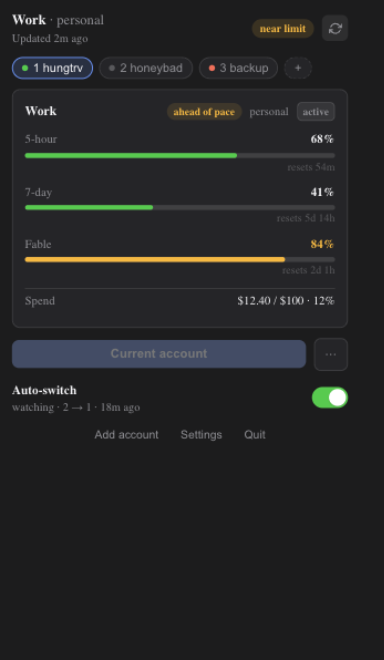
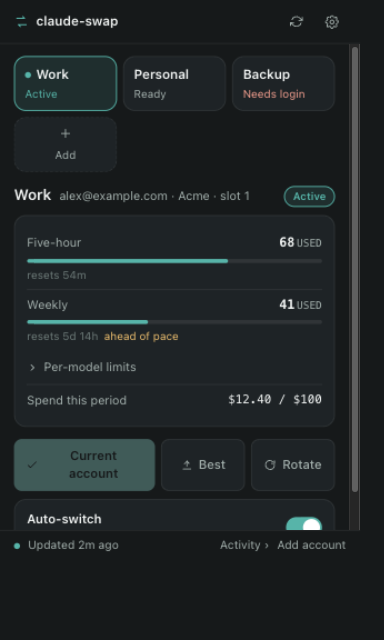
docs: redesign screenshots and README panel copy
Final fixture captures of the graphite and ivory panels (vision-gated
PASS both) replace the previous screenshots; README describes the
redesigned panel — selected-vs-active cards, explicit used bars,
disclosure, native-dialog sheets with the Activity history, and the
honest-states rules. Live hosted run verified clean.

diff --git a/README.md b/README.md
@@ -246,13 +246,18 @@ uv tool install 'claude-swap[menubar]'   # or: pipx install 'claude-swap[menubar
 cswap menubar
 ```
 
-**Left-click the ⇄ status item** for the panel: every account as a card
-with 5h / 7d / per-model utilization bars, live reset countdowns, spend,
-and ahead-of-pace markers. Switch (specific / rotate / best), hold an
-account out of rotation, remove, and add accounts — from the current
-login or a setup token — without touching a terminal. The panel follows
-the system's light/dark appearance, marks stale data when a fetch fails,
-and explains quarantined accounts instead of guessing. **Right-click**
+**Left-click the ⇄ status item** for the panel (graphite / warm-ivory
+design): every account as a selector card where *selected* (preview) is
+distinct from *active*, quotas as explicit **N% used** bars with live
+reset countdowns, per-model limits and spend behind a disclosure,
+one-click switch plus Best/Rotate, and an auto-switch toggle with its
+threshold and strategy always visible. Sheets are native dialogs — add
+from the current login or a setup token, remove with confirmation, and
+an Activity list of recent switches — all keyboard-operable. The panel
+follows the system's light/dark appearance and is honest about data:
+missing values show *unavailable* (never 0%), stale measurements keep
+their values labeled with age, a passed reset reads *Awaiting updated
+usage*, and API-key accounts are not failed logins. **Right-click**
 keeps a classic menu with the same actions as a fallback.
 
 <p>

diff --git a/tasks/todo.md b/tasks/todo.md
@@ -164,7 +164,7 @@ submissions go through the existing bridge actions only.
 **Estimated scope:** M
 
 ## Checkpoint B: full panel in fixture + hosted
-- [ ] Both themes faithful to the artboards; sheets work; **human review of derived light theme**
+- [x] Both themes faithful to the artboards; sheets work; **human review of derived light theme**
 
 ## Task 8: states, keyboard, reduced motion, icon fidelity
 
@@ -192,16 +192,16 @@ rendering, live hosted app run (real snapshot, popover opens, right-click
 menu intact), README screenshot refresh + copy tweak, full suite.
 
 **Acceptance criteria:**
-- [ ] Screenshots pass vision gate both themes; README shows the redesign
-- [ ] Live app clean run; right-click fallback untouched and working
-- [ ] `uv run pytest` fully green
+- [x] Screenshots pass vision gate both themes; README shows the redesign
+- [x] Live app clean run; right-click fallback untouched and working
+- [x] `uv run pytest` fully green
 
 **Verification:**
-- [ ] Browser + live app + suite; SPEC success criteria 1–7 walked
+- [x] Browser + live app + suite; SPEC success criteria 1–7 walked
 
 **Dependencies:** Task 8
 **Files:** `assets/menubar-panel-*.png`, `README.md`
 **Estimated scope:** S-M
 
 ## Checkpoint C: complete
-- [ ] SPEC success criteria 1–7 verified; Definition of Done satisfied
+- [x] SPEC success criteria 1–7 verified; Definition of Done satisfied

diff --git a/tasks/plan.md b/tasks/plan.md
@@ -46,14 +46,14 @@ accessibility, and a full verification sweep.
 - [x] Task 7: `sheets.js` — token/remove/activity `<dialog>`s + wiring
 
 ### Checkpoint B: full panel in fixture + hosted
-- [ ] Both themes render the main artboard faithfully; sheets work; human review of derived light theme
+- [x] Both themes render the main artboard faithfully; sheets work; human review of derived light theme
 
 ### Phase 3: States, accessibility, verification
 - [x] Task 8: all artboard states, keyboard, reduced motion, icon fidelity
-- [ ] Task 9: verification sweep — vision gates, live run, README/screenshots refresh
+- [x] Task 9: verification sweep — vision gates, live run, README/screenshots refresh
 
 ### Checkpoint C: complete
-- [ ] SPEC success criteria 1–7 verified; Definition of Done satisfied
+- [x] SPEC success criteria 1–7 verified; Definition of Done satisfied
 
 ## Risks and Mitigations
 
